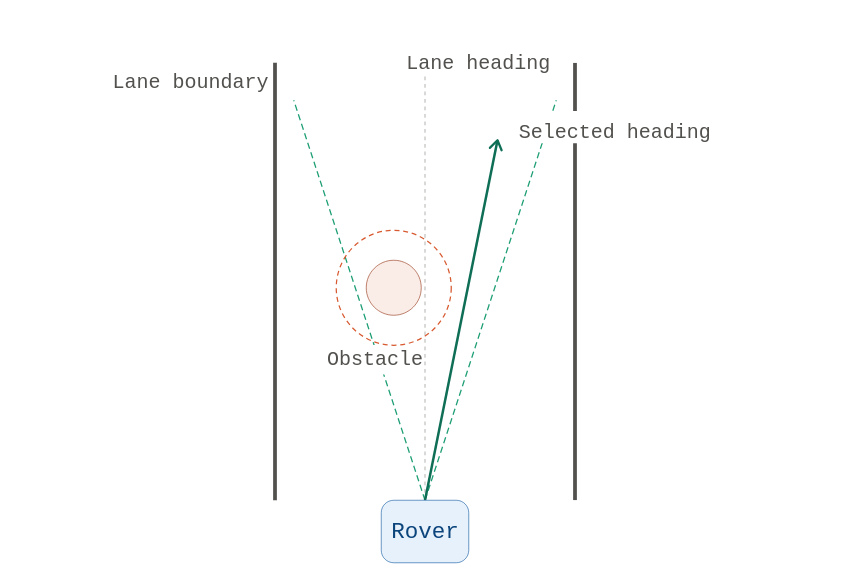
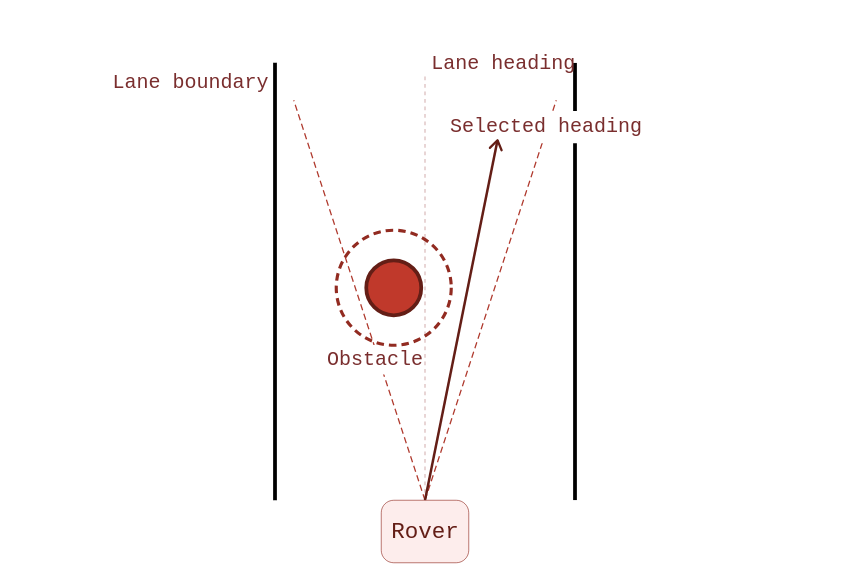
added the lane nav section

diff --git a/reports/TDR/main.tex b/reports/TDR/main.tex
@@ -209,6 +209,31 @@ Safety was a core design consideration both in hardware and software.
 \subsubsection{Lane Detection and Navigation}
 % lane detection part
 % lane navigation part 
+The rover's lateral offset from the lane center, output by the \texttt{lane\_detection\_node}, is consumed by the lane navigation module as its error input. Lane navigation is handled by a PID control loop that converts this error into a corrective angular velocity command, while maintaining a constant forward velocity.
+\\
+The PID controller is tuned to provide a balance between responsiveness and stability in MATLAB's Simulink as shown in Figure \ref{fig:pid-tuning}.
+\begin{figure}[H]
+    \centering
+    \includegraphics[width=0.75\linewidth]{assets/lane_control_loop.jpeg}
+    \caption{PID Tuning }
+    \label{fig:pid-tuning}
+\end{figure}
+\begin{figure}[H]
+    \centering
+    \includegraphics[width=0.75\linewidth]{assets/lane_control_response.jpeg}
+    \caption{PID step response for lane navigation control}
+    \label{fig:lane-control-response}
+\end{figure}
+\textbf{Safety and Stability Considerations:} 
+\begin{itemize}
+    \setlength{\itemsep}{1pt}
+    \setlength{\parskip}{0pt}
+    \setlength{\parsep}{0pt}
+    \item Integral windup protection: The accumulated integral term is bounded to ±1.0, preventing the integral component from growing unbounded during sustained non-zero error.
+    \item Angular velocity saturation:  The final steering command is clamped to a max angular velocity, ensuring the rover cannot issue a steering command beyond necessary limits.
+\end{itemize}
+The lane navigation node then publishes the steering commands to the respective topic to be processed along with the obstacle avoidance node's output to generate a final angular velocity command for the rover.
+
 \subsubsection{Pothole Detection}
 \subsubsection{Obstacle Avoidance}
 The rover utilizes a LiDAR sensor (RPLIDAR A2)  to detect obstacles within the drivable lane corridor and generate a corrected heading that keeps the rover within lane boundaries while avoiding collisions.
@@ -234,7 +259,19 @@ At each scan cycle, the system executes the following sequence:
     \item \textbf{Heading Selection:} Following boundary expansion, select the direction within the permitted window that offers the greatest unobstructed distance and publish this as the corrected heading command.
 \end{enumerate}
 
+
 \subsubsection{Face Recognition and Detection}
+\paragraph{Models:}
+The system uses two pre-trained OpenCV deep learning models. YuNet is used for real-time face detection, while SFace extracts facial features and performs face recognition by comparing the detected face with a stored target feature using cosine similarity. The target feature is cached after the first extraction to improve runtime performance.
+
+\paragraph{Architecture:}
+The system implements a real-time face recognition pipeline that processes live camera frames. It first detects faces in each frame, then recognizes the target person by comparing the detected face with a stored facial representation. The output indicates whether the detected face matches the target or is an unknown person.
+
+For a recognized target, the system also estimates the face position relative to the center of the image by computing horizontal and vertical offsets. This information can be used for real-time tracking or robot navigation while continuously updating the visual output.
+
+\paragraph{ROS Integration:}
+The face recognition node subscribes to the video stream to process each frame, and publishes the annotated frame for optional debugging along with a coordinate offset for laser pointing.
+
 \subsection{Communication Systems}
 For transfering high-speed, high-bandwidth data between the onboard computer and the station, the existing ROS 2 system with its Data Distribution Service was used, to leverage descriptive topics, concurrent querying, real-time streaming and fault-tolerant connection.
 